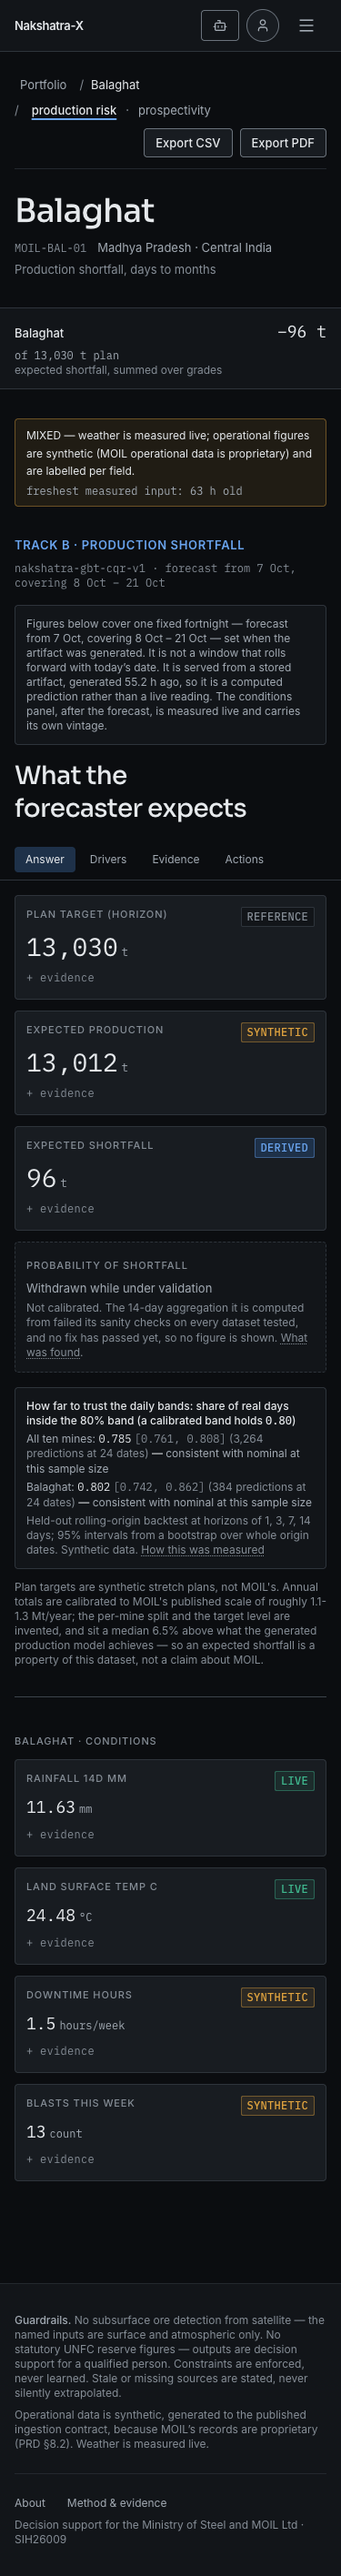
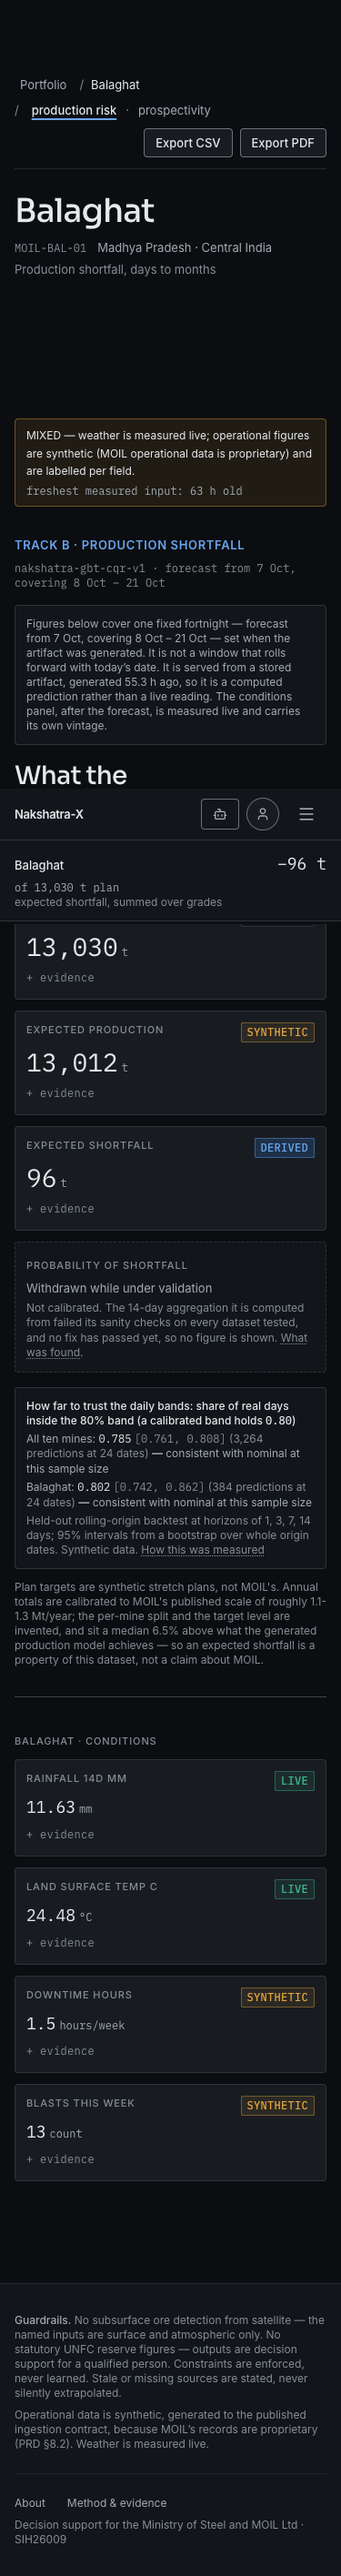
docs(design): phone tab shots show each tab; the sticky summary hides the tabs
The four 375 Balaghat tab shots were identical: each was the top of the page,
where nothing changes between tabs. The capture now scrolls the tab bar to the
top after tapping, as a phone user sees it, and re-takes the 375 Balaghat set
from the same unchanged code. Doing so showed a real defect, added to the
audit (issue 8): the sticky summary (~90 px at 56 px) covers the sticky tab
bar (104 px), so after scrolling the tabs are hidden.

A partial re-run of the capture now merges into _capture.json instead of
replacing it.

diff --git a/frontend/tools/polish-capture.js b/frontend/tools/polish-capture.js
@@ -164,7 +164,17 @@ const screens = {
           b?.click()
         }, tab)
         await sleep(600)
-        await shoot(page, vp, `03-balaghat-tab-${tab.toLowerCase()}`)
+        // The fold is the same for every tab; what changes is below the tab
+        // bar. So each tab is shot with the tab bar at the top of the screen,
+        // as a phone user sees it after tapping, and as a full page.
+        await page.evaluate(() => window.scrollTo(0, 0))
+        await page.evaluate(() => {
+          const nav = document.querySelector('nav[aria-label="Mine sections"]')
+          if (nav) window.scrollTo(0, nav.getBoundingClientRect().top + scrollY - 56)
+        })
+        await sleep(300)
+        await snap(page, vp, `03-balaghat-tab-${tab.toLowerCase()}`)
+        await page.screenshot({ path: file(vp, `03-balaghat-tab-${tab.toLowerCase()}-full`, false), fullPage: true })
       }
     }
   },
@@ -290,7 +300,19 @@ const screens = {
     await page.close()
   }
   await browser.close()
-  fs.writeFileSync(path.join(OUT, '_capture.json'), JSON.stringify(report, null, 2))
+  // A partial re-run (--only, --screens) updates what it measured and keeps
+  // the rest of an existing record.
+  const out = path.join(OUT, '_capture.json')
+  if (fs.existsSync(out)) {
+    const prev = JSON.parse(fs.readFileSync(out, 'utf8'))
+    for (const [id, m] of Object.entries(report.viewports)) {
+      prev.viewports[id] = { ...(prev.viewports[id] ?? {}), ...m }
+      prev.console_errors[id] = report.console_errors[id]
+    }
+    fs.writeFileSync(out, JSON.stringify(prev, null, 2))
+  } else {
+    fs.writeFileSync(out, JSON.stringify(report, null, 2))
+  }
   console.log(`\n${OUT}/_capture.json`)
 })().catch((e) => {
   console.error(e)

diff --git a/docs/design/POLISH_AUDIT.md b/docs/design/POLISH_AUDIT.md
@@ -261,11 +261,19 @@ glows. **Fix:** a static marker; no slide.
 
 ![balaghat at 375](polish/before/375-03-balaghat-tab-answer.png)
 
+![balaghat drivers tab at 375](polish/before/375-03-balaghat-tab-drivers.png)
+
 At 375 the sticky summary does put the answer (−96 t) in the fold, which works.
-Around it: the breadcrumb wraps so "/ production risk" starts a line on its
-own; Export CSV / PDF take a full row; the fortnight paragraph is 140 px. The
-Track A card covers the map (issue 5). **Fix:** the one-line disclosure from
-issue 2 removes most of it; the hotspot card moves off the map on phones.
+But **once you scroll, it hides the section tabs**: the summary is sticky at
+56 px and about 90 px tall, and the tab bar is sticky at 104 px, so the tabs
+slide under it. The shot above is the Drivers tab after tapping it — no tab bar
+on screen. Around it: the breadcrumb wraps so "/ production risk" starts a line
+on its own; Export CSV / PDF take a full row; the fortnight paragraph is 140 px.
+The Track A card covers the map (issue 5).
+
+**Fix:** the summary becomes one line (48 px), which is what the tab bar's
+104 px offset assumes; the one-line disclosure from issue 2 removes the
+paragraph; the hotspot card moves off the map on phones.
 
 ### 9. Portfolio — works; small things
 
